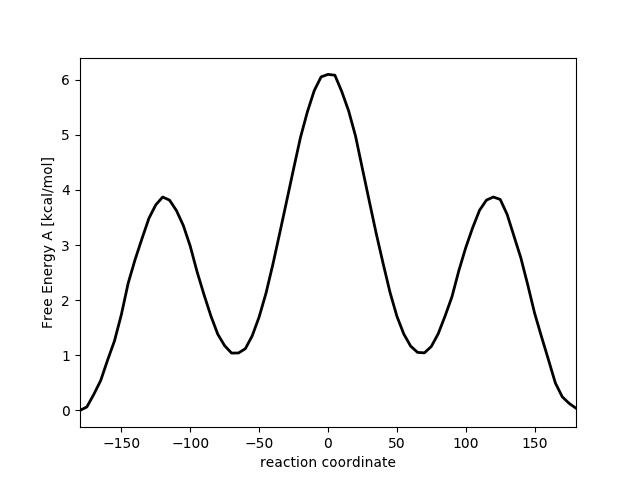
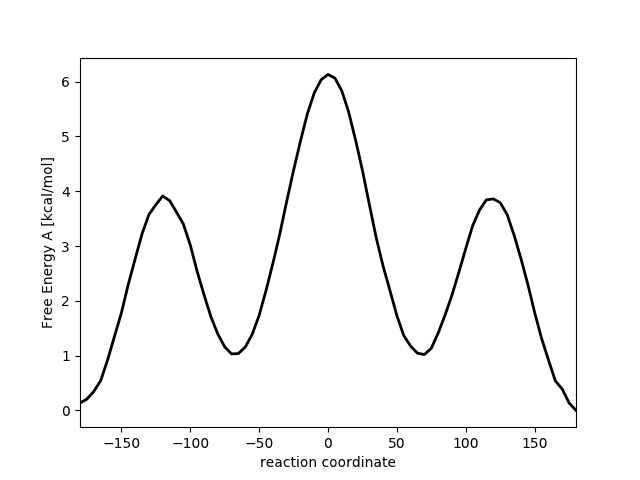
small improvement in script and tutorial

diff --git a/manual/Tutorial/LaTeX/Tutorial.tex b/manual/Tutorial/LaTeX/Tutorial.tex
@@ -1204,7 +1204,7 @@ Then we go into the inputfile \texttt{CAST.txt}.
 \begin{itemize}
 	\item The \texttt{name} of our inputfile is of course \texttt{butan.arc}, the \texttt{inputtype} is \texttt{TINKER}.
 	\item The \texttt{task} is \texttt{UMBRELLA}.
-	\item Our energy \texttt{interface} is \texttt{CHARMM} and the \texttt{paramfile} is called \texttt{charmm22.prm}. 
+	\item Our energy \texttt{interface} is \texttt{CHARMM22} and the \texttt{paramfile} is called \texttt{charmm22.prm}. 
 	\item Then we scroll down a lot to the section MD OPTIONS.
 	\item We want to sample the molecule for 500\,ps, so we choose \texttt{500000 MDsteps}. Velocity scaling may be switched on by giving option \texttt{1} for \texttt{MDveloscale}.
 	\item We use the Velocity-Verlet integrator, so the value for \texttt{integrator} is \texttt{0}.
@@ -1232,6 +1232,8 @@ Then we move to the snapshot file and open it with VMD where we can watch the mo
 \end{figure}
 
 The last file is that called \texttt{umbrella.txt}. It contains the value of the restrained torsion for every step of the sampling simulation. As we saw in the snapshot file all the values are quite near to 150°. This file will later be used by the external program WHAM\myCite{grossfield_wham_nodate} to calculate the PMF.
+
+\colorbox{red}{Everything until here (including picture) done with wrong forcefield}
 \\
 \FloatBarrier
 
@@ -1364,7 +1366,7 @@ After we have run the script we can go into the folder \texttt{analysis} which w
 
 We first have a look into the inputfile: It contains for every single window the name of the \texttt{umbrella\_*.txt} file, the value to which the torsinal angle was restrained and the force constant of the biasing potential.
 
-In the output file we only look at lines 1 to 74. The first column contains the center of the bins we defined by the minimum and maximum value of the torsional angle and the number of bins. The second column contains the Free Energy difference $A(\xi)$. We see that it's highest value is at 0°. This is what we expect because there the two methyl groups are next to each other (eclipsed conformation). This value should be somewhere near $5.76 \frac{kcal}{mol}$\myCite{becker_development_2015}. In my example it is around $6.1 \frac{kcal}{mol}$. Results here can differ a bit because there is always a lot of randomness in MD simulations. The third and the fifth column are bullshit, the fourth line contains the probability. When the Free Energy is high the probability is low and the other way round. Because all other lines start with \texttt{\#} it is quite easy to plot this file with gnuplot: \texttt{plot "out.txt" using 1:2 with lines} shows the Free Energy, \texttt{plot "out.txt" using 1:4 with lines} shows the probability. The results should look something like figure \ref{fig:wham_result}.
+In the output file we only look at lines 1 to 74. The first column contains the center of the bins we defined by the minimum and maximum value of the torsional angle and the number of bins. The second column contains the Free Energy difference $A(\xi)$. We see that it's highest value is at 0°. This is what we expect because there the two methyl groups are next to each other (eclipsed conformation). This value should be somewhere near $5.76 \frac{kcal}{mol}$\myCite{becker_development_2015}. In my example it is around $6.13 \frac{kcal}{mol}$. Results here can differ a bit because there is always a lot of randomness in MD simulations. The third and the fifth column are bullshit, the fourth line contains the probability. When the Free Energy is high the probability is low and the other way round. Because all other lines start with \texttt{\#} it is quite easy to plot this file with gnuplot: \texttt{plot "out.txt" using 1:2 with lines} shows the Free Energy, \texttt{plot "out.txt" using 1:4 with lines} shows the probability. The results should look something like figure \ref{fig:wham_result}.
 
 \begin{figure} [htb]
 	\subfigure[Free Energy]{\includegraphics[width=0.49\textwidth]{Img/umbrella_FreeEnergy.png}}
@@ -1386,7 +1388,7 @@ Now we plot the output file again with gnuplot. The results are shown in figure 
 
 As you see the energy here goes up a little at the edges so the minimum energy point is not at a torsional angle of 180° as it should. So in this case the periodic conditions don't seem to be perfect.
 
-What is the reason for that? When switching on periodicity the only thing that changes in the WHAM code is that the minimal image convention is applied. This means that for example the distance from a bin centered at 175° to a bin that is centered at -175° is 10°, not 350° as it would be without periodicity (see WHAM manual). However we have one bin centered at 0° and one bin centered at 360° which are on the same place as far as the minimum image convention is concerned. It seems that WHAM can't correctly handle this. If I remove the last simulation and the last bin from the analysis (so I have to change \texttt{STEPS} to \texttt{range(-180, 180, 5)}, \texttt{MAX} to \texttt{177.5} and \texttt{BINS} to 72) the value for -180° is still higher than for -175° but only slightly (by $0.016 \frac{kcal}{mol}$). You can see the improvement of the curves if you compare figure \ref{fig:wham_180} to \mbox{figure \ref{fig:wham_result_period}}.
+What is the reason for that? When switching on periodicity the only thing that changes in the WHAM code is that the minimal image convention is applied. This means that for example the distance from a bin centered at 175° to a bin that is centered at -175° is 10°, not 350° as it would be without periodicity (see WHAM manual). However we have one bin centered at 0° and one bin centered at 360° which are on the same place as far as the minimum image convention is concerned. It seems that WHAM can't correctly handle this. If I remove the last simulation and the last bin from the analysis (so I have to change \texttt{STEPS} to \texttt{range(-180, 180, 5)}, \texttt{MAX} to \texttt{177.5} and \texttt{BINS} to 72) the value for -180° is still higher than for -175° but only slightly (by $0.012 \frac{kcal}{mol}$). You can see the improvement of the curves if you compare figure \ref{fig:wham_180} to \mbox{figure \ref{fig:wham_result_period}}.
 
 \begin{figure} [htb]
 	\subfigure[Free Energy]{\includegraphics[width=0.49\textwidth]{Img/free_180.png}}
@@ -1485,6 +1487,8 @@ You see that for every trajectory the distribution is kind of a gaussian distrib
 \FloatBarrier
 
 \textbf{2D Umbrella Sampling}
+
+\colorbox{red}{DONE WITH WRONG FORCEFIELD}
 
 Often during a reaction more than one distance or dihedral angle change, so the Free Energy depends on more than one reaction coordinate. If taking into account 2 reaction coordinates you get something similar as a PES (just that it describes not only the potential energy but also entropic contributions). This two-dimensional case can also be treated by Umbrella Sampling in combination with WHAM.
 

diff --git a/optional_files/scripts/umbrella_stuff/umbrella_plot.py b/optional_files/scripts/umbrella_stuff/umbrella_plot.py
@@ -20,6 +20,9 @@ for line in lines:
         xi.append(float(linelist[0]))
         A.append(float(linelist[1]))
         P.append(float(linelist[3]))
+        
+# determine minimum and maximum value for xi
+MIN, MAX = min(xi), max(xi)
 
 # plot Free Energy
 plt.plot(xi, A, linewidth=2, color='black')
@@ -51,5 +54,6 @@ for filename in glob.glob("umbrella_*.txt"):
 
 plt.rcParams['figure.figsize'] = [11,8]  # 11x8 inches is next to DinA4
 number = int(math.sqrt(len(xi_lists[0])))
+plt.xlim(MIN, MAX)
 n, bins, patches = plt.hist(xi_lists, number, histtype='step')
 plt.savefig("distribution.png", dpi=100)  
